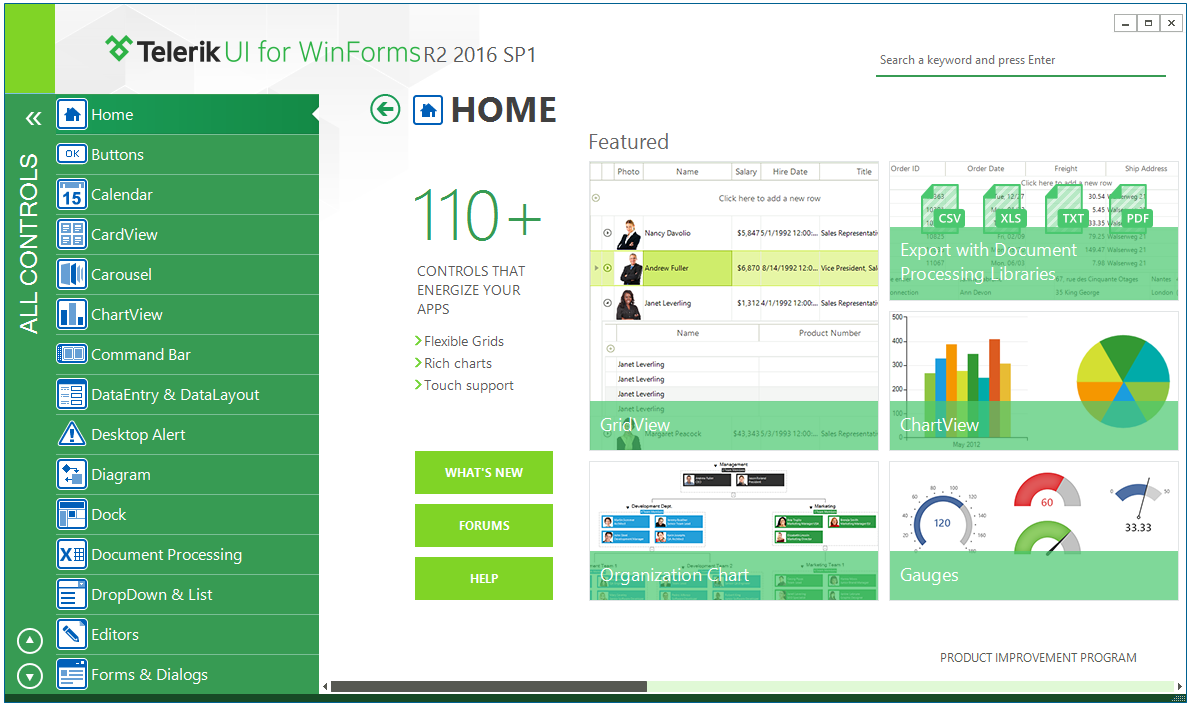
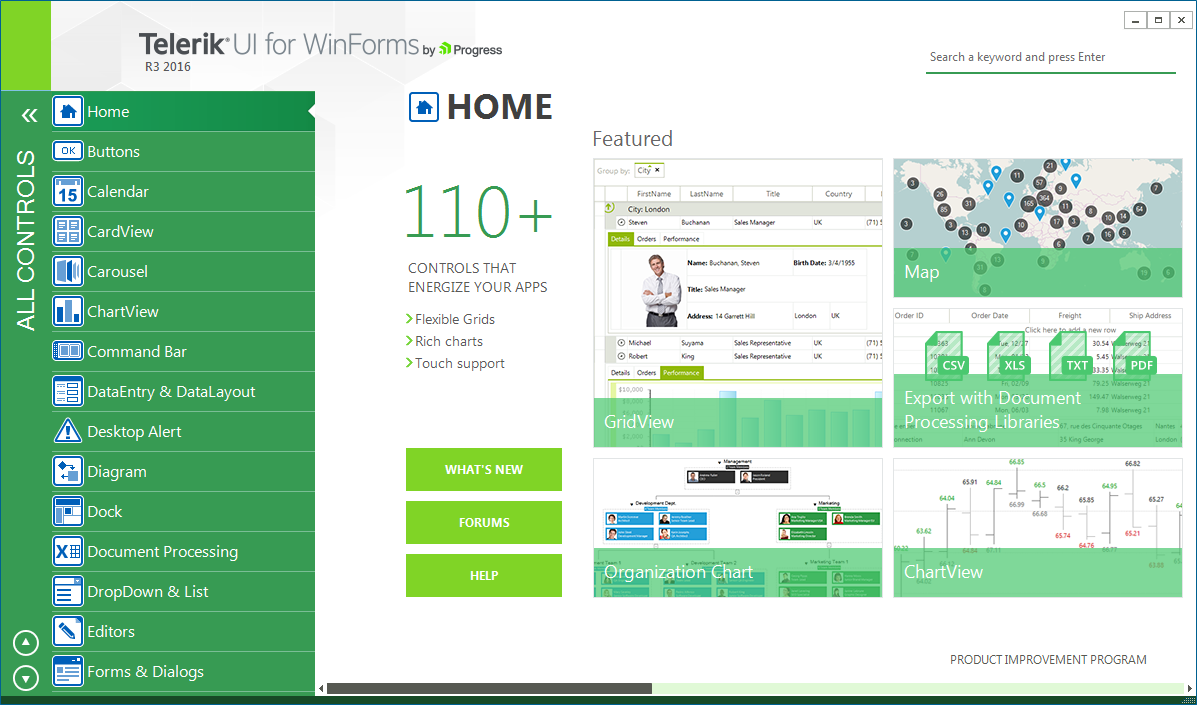
Change qsf Image

diff --git a/installation-deployment-and-distribution/redistributing-telerik-ui-for-winforms.md b/installation-deployment-and-distribution/redistributing-telerik-ui-for-winforms.md
@@ -761,7 +761,7 @@ Telerik.WinControls.Themes.Windows8.dll</td></tr>
 <tr><td><b>RadClock</b></td><td>Telerik.WinControls.UI.dll</td></tr>
 <tr><td><b>RadPdfViewerNavigator</b></td><td>Telerik.WinControls.PdfViewer.dll</td></tr>
 <tr><td><b>RadCardView</b></td><td>Telerik.WinControls.UI.dll</td></tr>
-
+<tr><td><b>RadMap</b></td><td>Telerik.WinControls.RadMap.dll</td></tr>
 </table>
 
 You can find all these assemblies in the __/bin__ folder of your installation.

diff --git a/introduction.md b/introduction.md
@@ -34,6 +34,7 @@ Telerik UI for WinForms includes over 110 UI controls that you can use to easily
 * [ListView]({%slug winforms/listview%})
 * [CardView]({%slug winforms/cardview/overview%})
 * [LinearGauge]({%slug winforms/gauges/lineargauge%})
+* [Map]({%slug winforms/map%})
 * [Menu]({%slug winforms/menus/menu%})
 * [MultiColumnComboBox]({%slug winforms/multicolumncombobox%})
 * [PageView]({%slug winforms/pageview%})[Panorama]({%slug winforms/panorama%})

diff --git a/installation-deployment-and-distribution/adding-radcontrols-to-visual-studio-toolbox.md b/installation-deployment-and-distribution/adding-radcontrols-to-visual-studio-toolbox.md
@@ -112,6 +112,8 @@ Telerik UI for WinForms are automatically added to Visual Studio 2005/2008/2010/
  * Telerik.WinControls.PivotGrid.dll
 
  * Telerik.WinControls.RichTextEditor.dll
+ 
+ * Telerik.WinControls.RadMap.dll
 
 
 >Resetting the toolbox through the __Reset__ context command will remove the tools from the toolbox. If you need to reset the toolbox, just add the controls as described above.

diff --git a/installation-deployment-and-distribution/application-deployment.md b/installation-deployment-and-distribution/application-deployment.md
@@ -502,4 +502,5 @@ Telerik.WinControls.Themes.Windows8.dll</td></tr>
 <tr><td><b>RadClock</b></td><td>Telerik.WinControls.UI.dll</td></tr>
 <tr><td><b>RadPdfViewerNavigator</b></td><td>Telerik.WinControls.PdfViewer.dll</td></tr>
 <tr><td><b>RadCardView</b></td><td>Telerik.WinControls.UI.dll</td></tr>
+<tr><td><b>RadMap</b></td><td>Telerik.WinControls.RadMap.dll</td></tr>
 </table>
